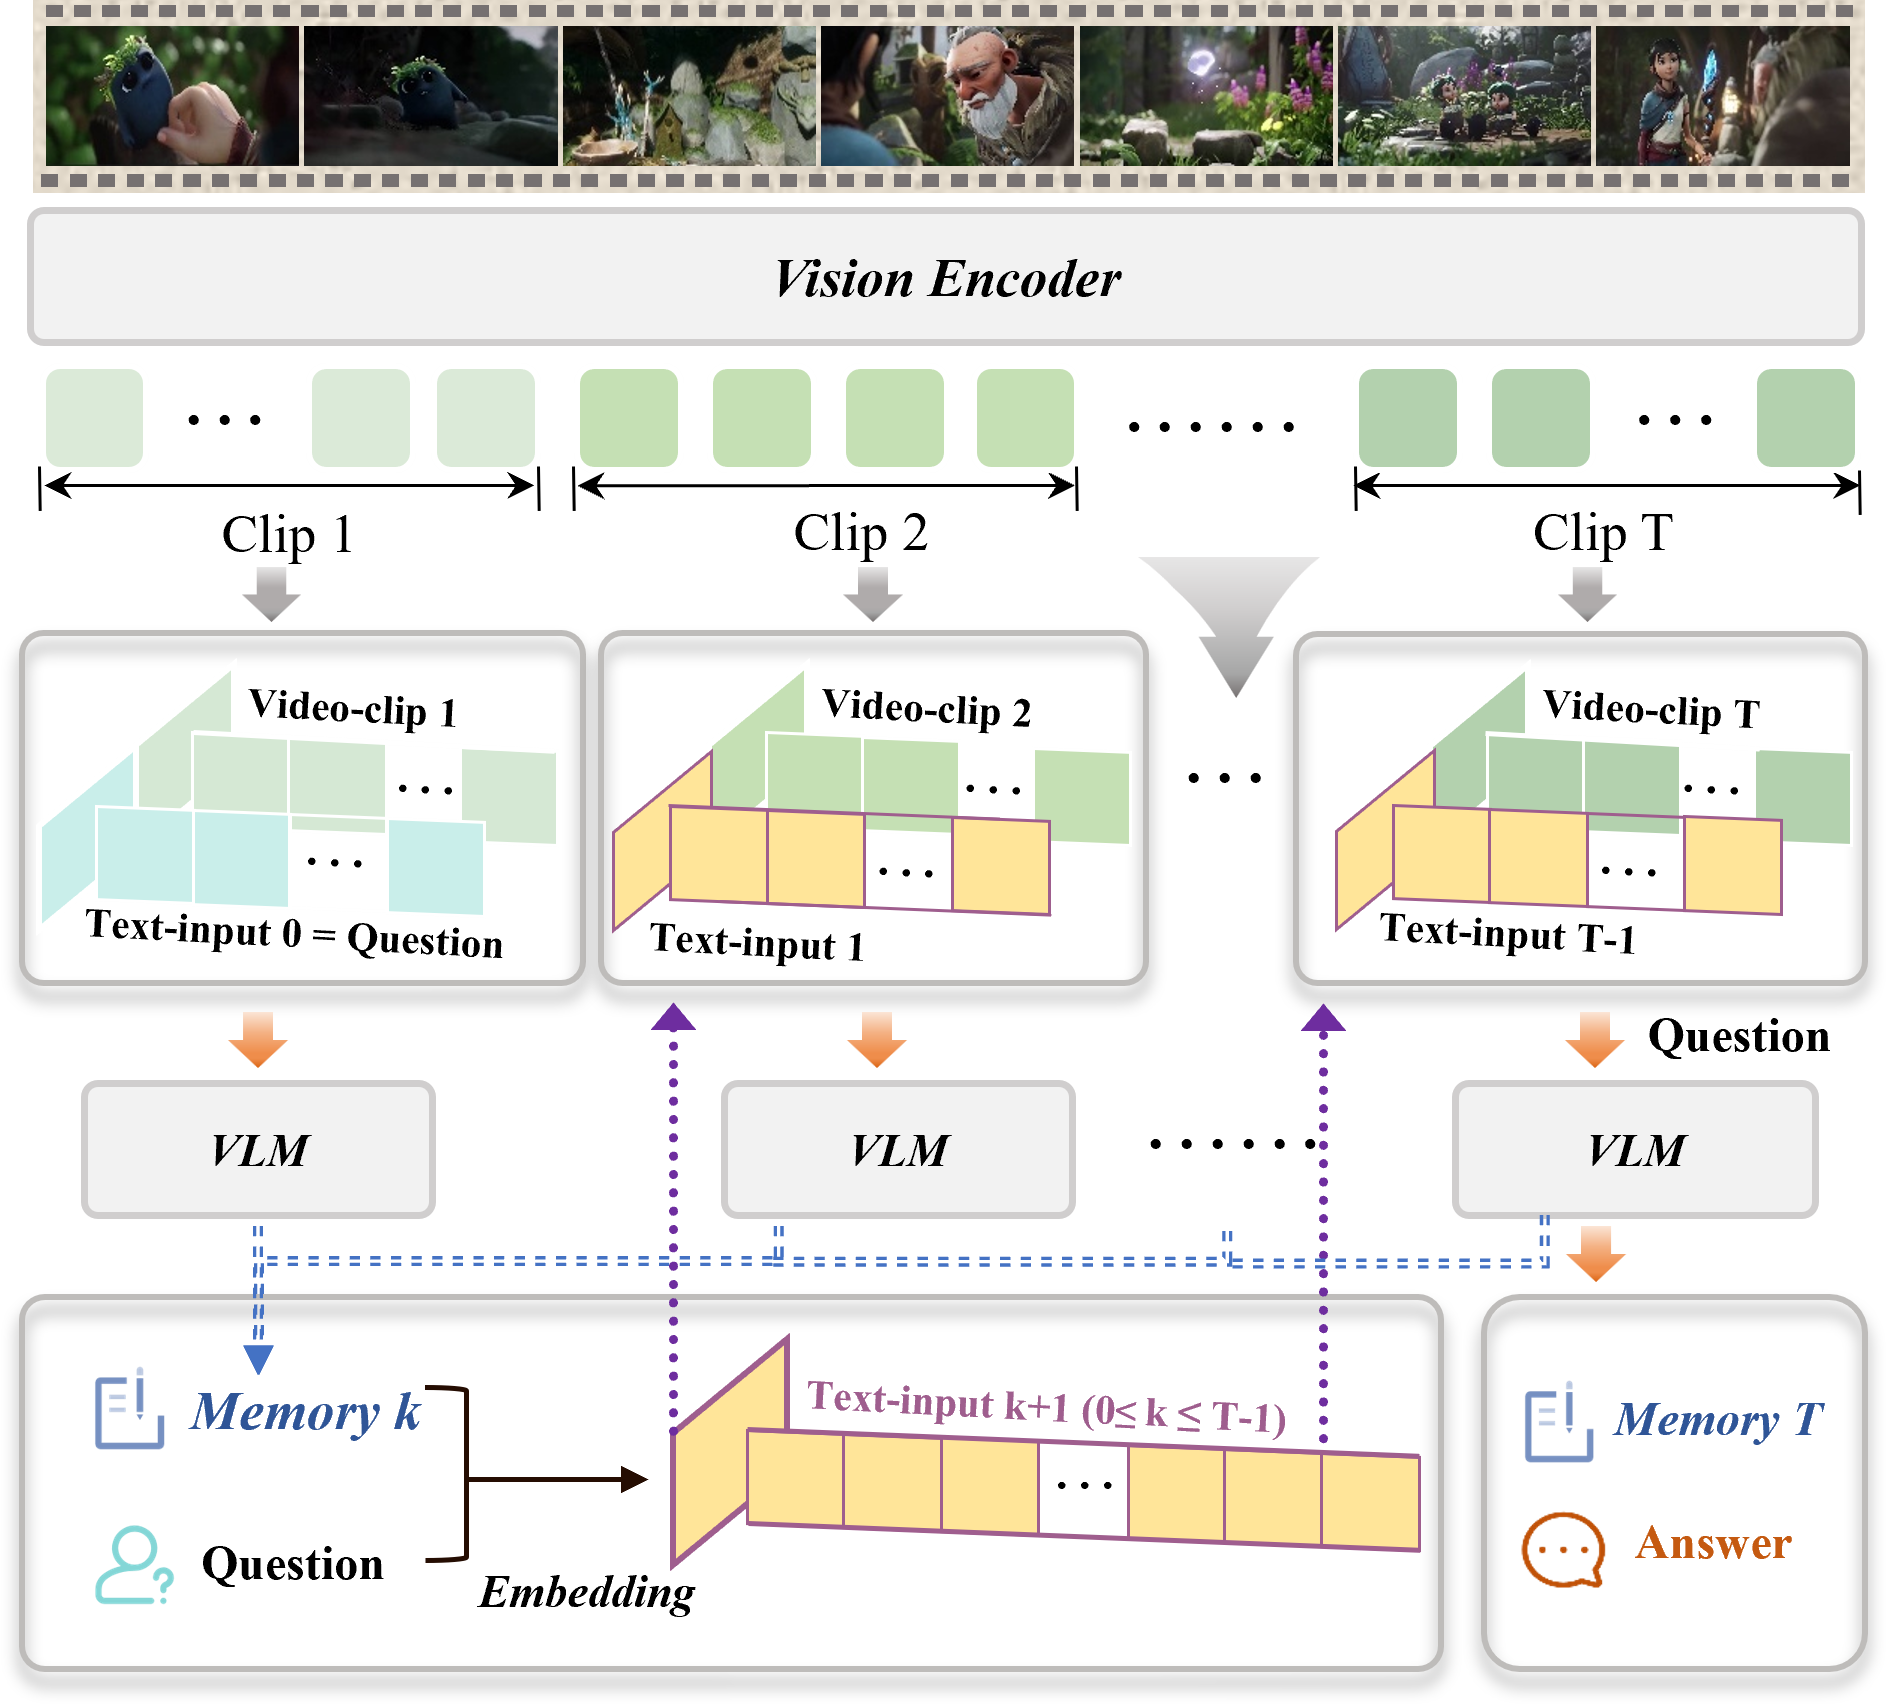
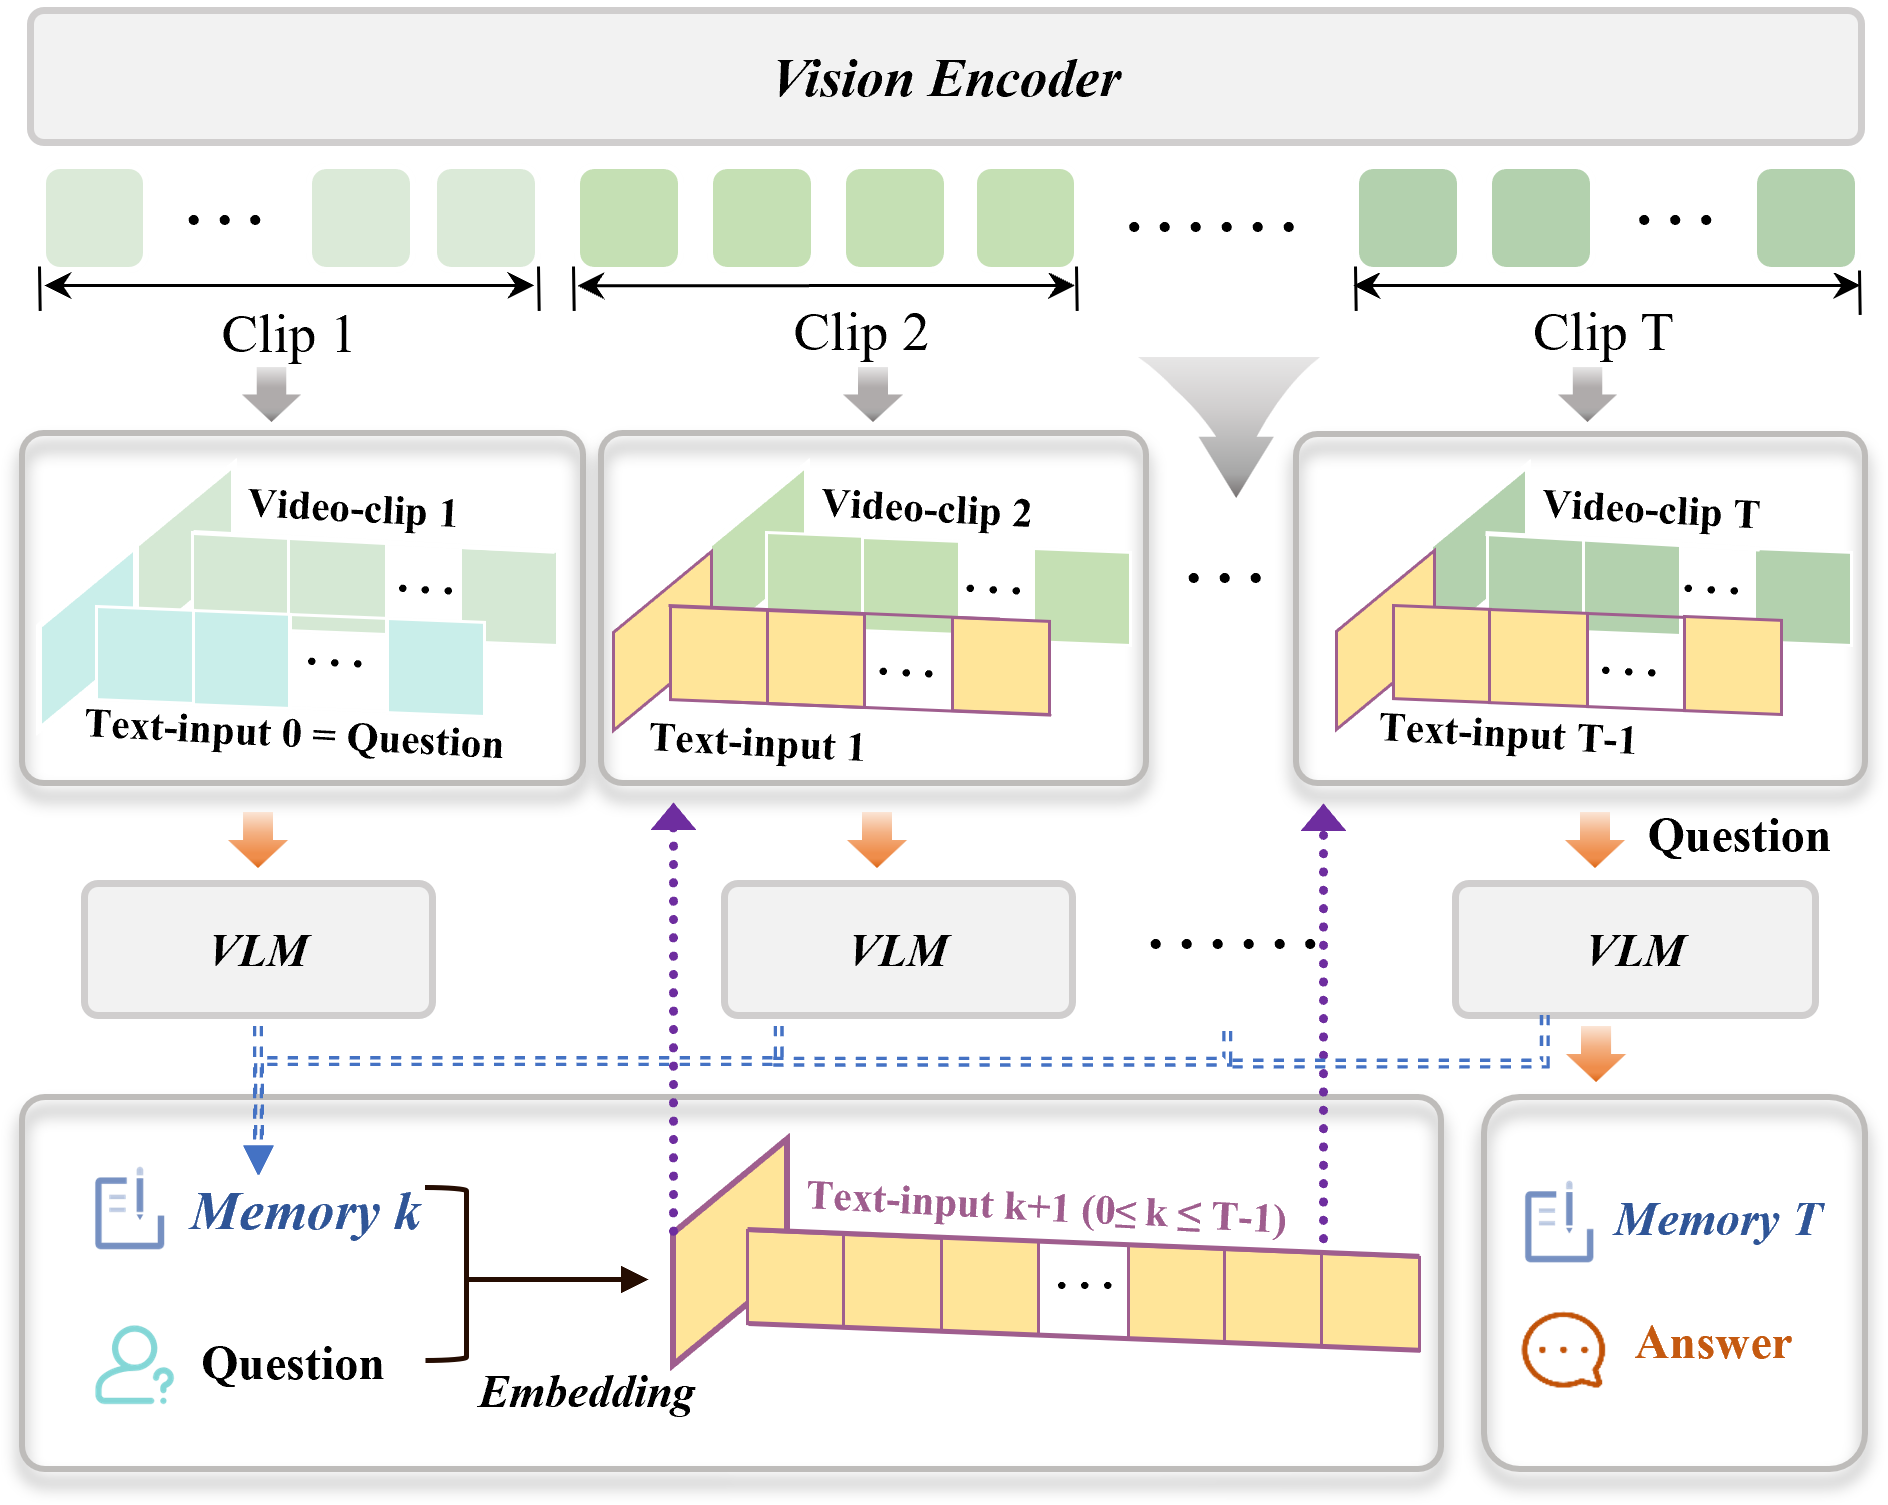
Crop and resize VideoMem publication thumbnail

diff --git a/index.html b/index.html
@@ -205,7 +205,7 @@
 
               <tr>
                 <td class="pub-figure-cell" style="padding:20px;width:30%;max-width:30%" align="center">
-                  <img class="pub-figure" style="width:100%;max-width:100%" src="images/videomem.png" alt="VideoMem framework overview (Figure 2)">
+                  <img class="pub-figure videomem-pub-figure" style="width:100%;max-width:100%" src="images/videomem.png" alt="VideoMem framework overview (Figure 2)">
                 </td>
                 <td class="pub-content-cell" width="75%" valign="center">
                   <papertitle>VideoMem: Enhancing Ultra-Long Video Understanding via Adaptive Memory Management</papertitle>

diff --git a/stylesheet.css b/stylesheet.css
@@ -115,6 +115,11 @@ papertitle {
   object-fit: fill;
 }
 
+.videomem-pub-figure {
+  aspect-ratio: 3 / 2;
+  object-fit: contain;
+}
+
 name {
   font-family: 'Lato', Verdana, Helvetica, sans-serif;
   font-size: 32px;
